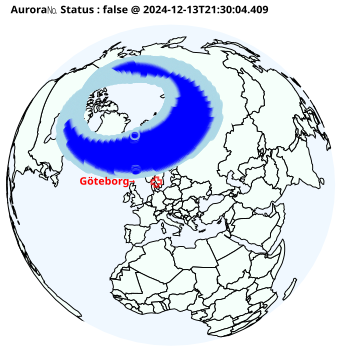
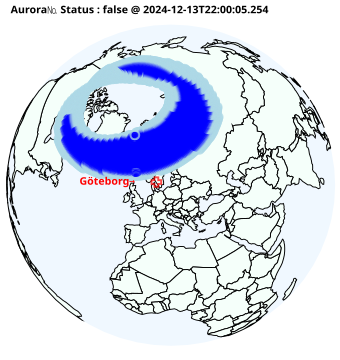
20241213220018 added aur.html

diff --git a/aur.html b/aur.html
@@ -7,6 +7,6 @@
 <body>
     <h1>Aurora Watch</h1>
     <img src="a.png" alt="Aurora Image" style="width:100%;max-width:600px;">
-    <p>Aurora Level 🌌= (0.0) was observed. (2024-12-13T21:30:04.409)</p>
+    <p>Aurora Level 🌌= (0.5) was observed. (2024-12-13T22:00:05.254)</p>
 </body>
 </html>
